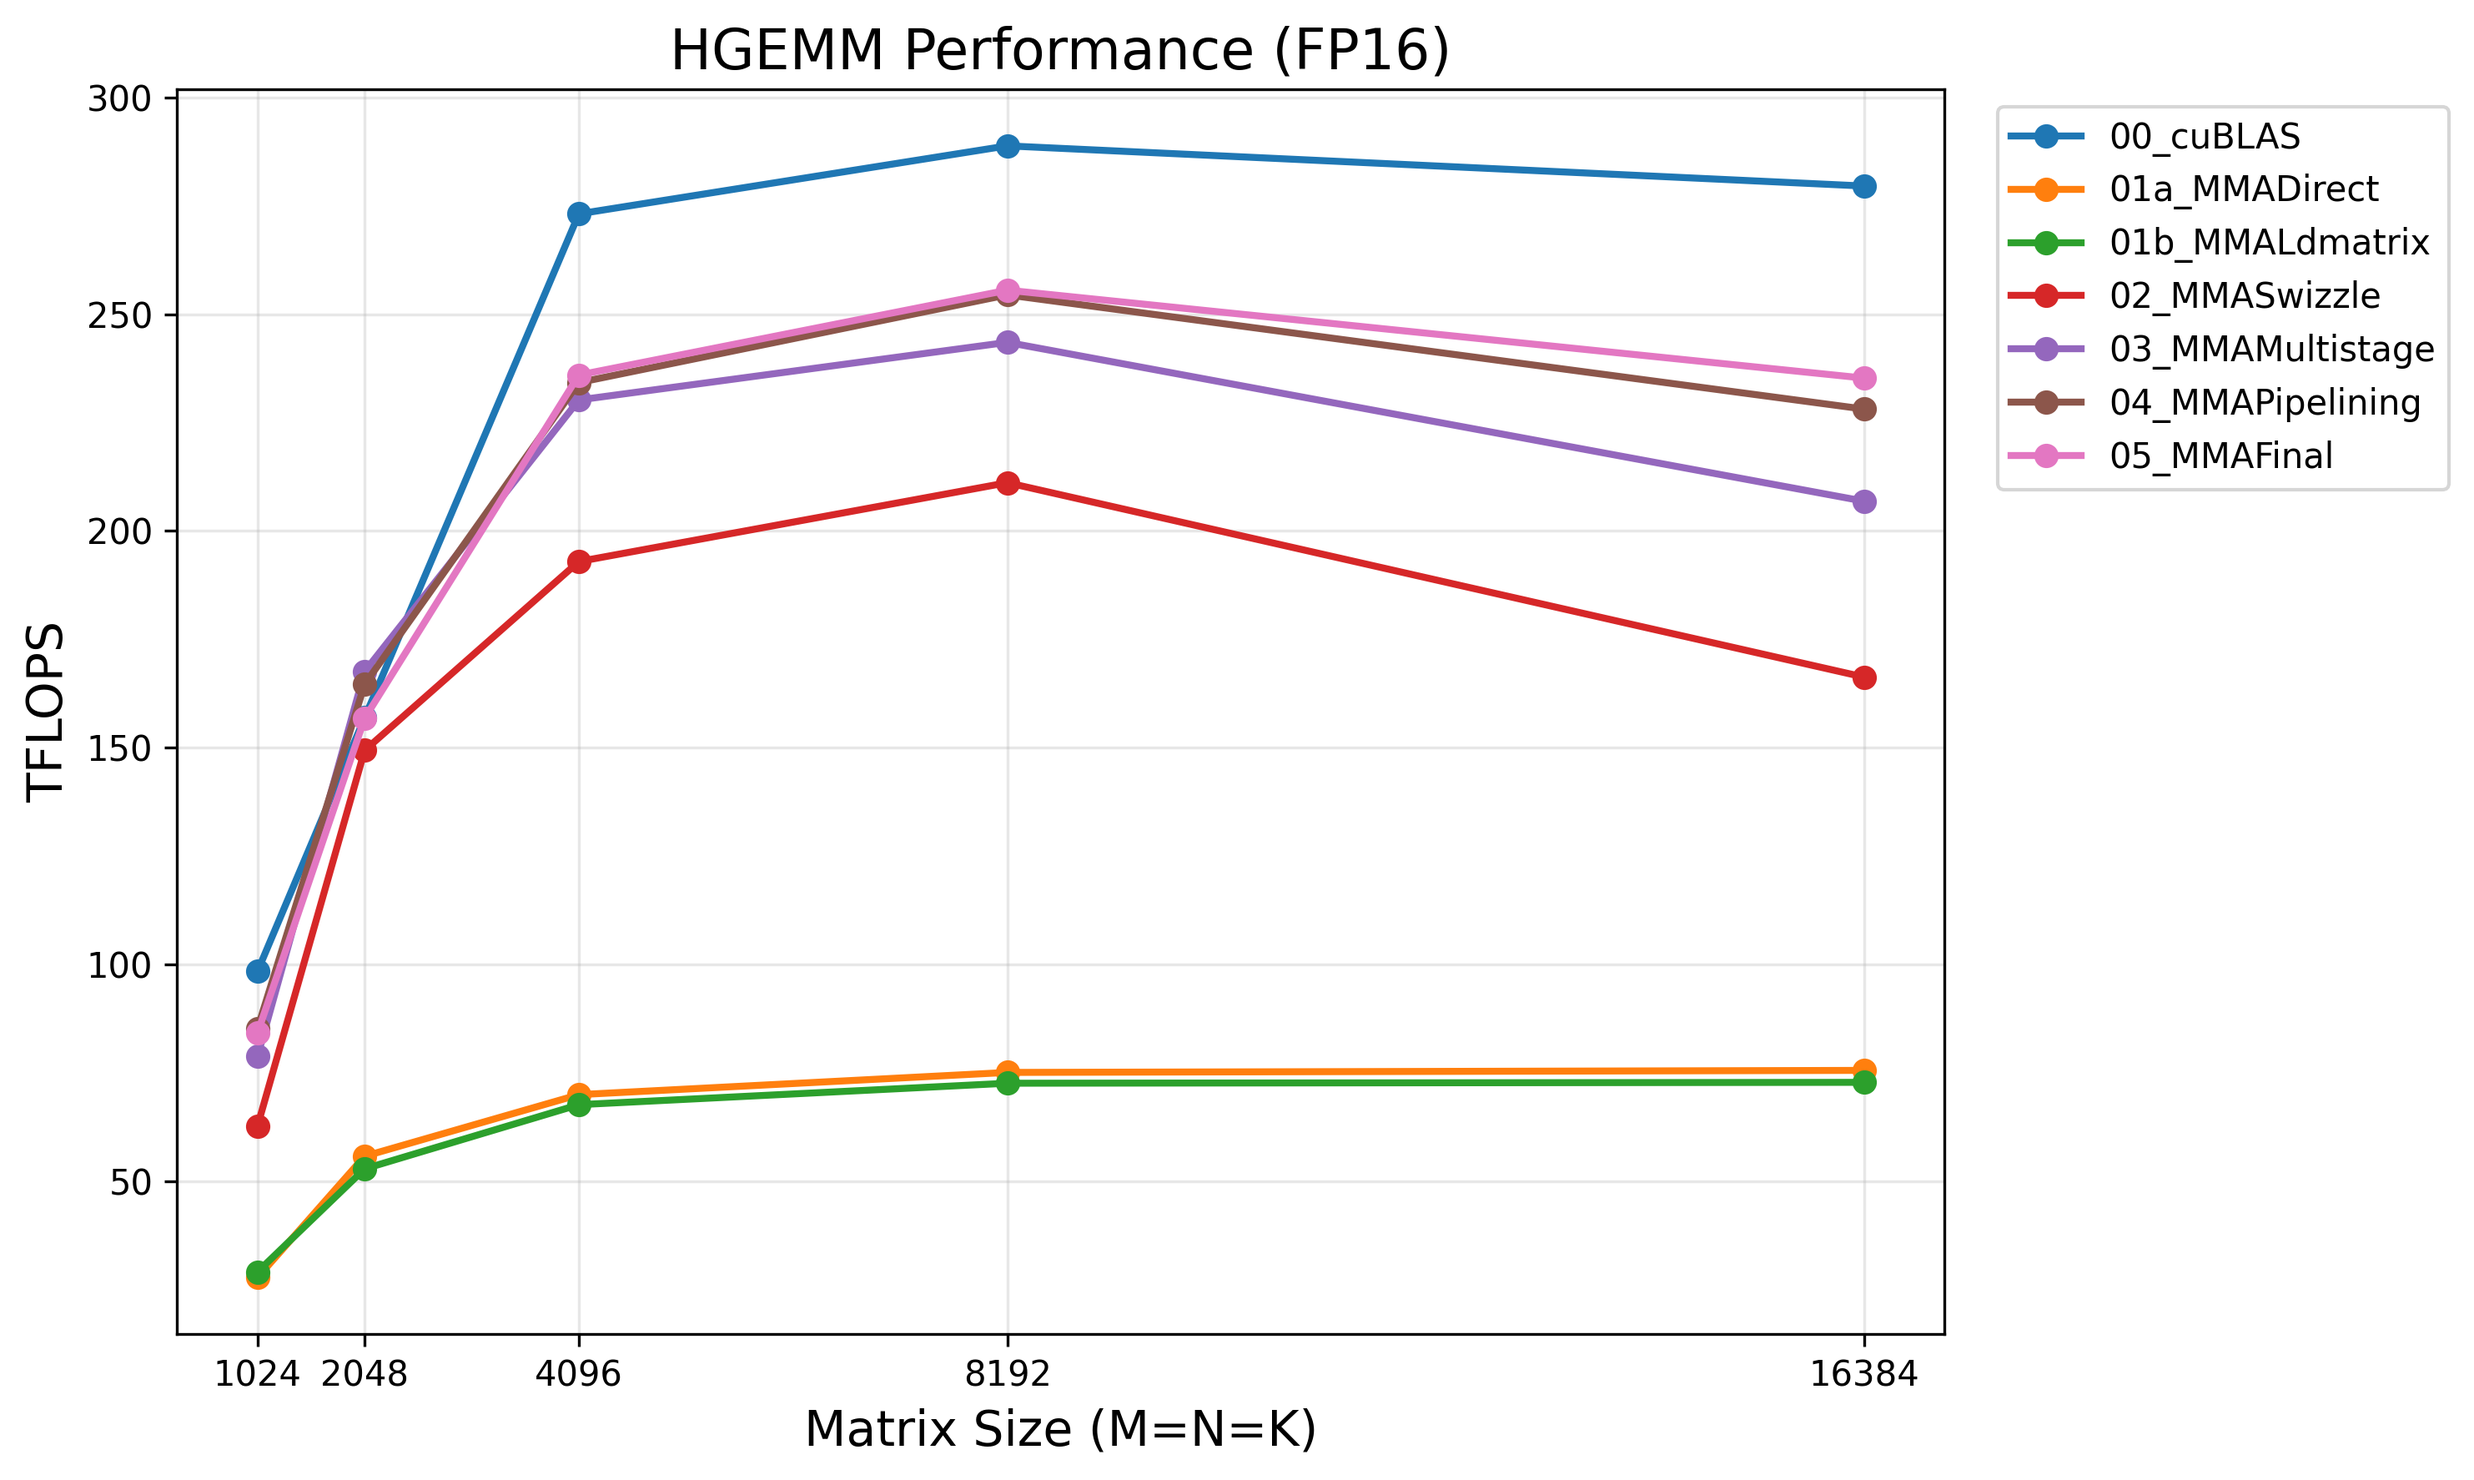
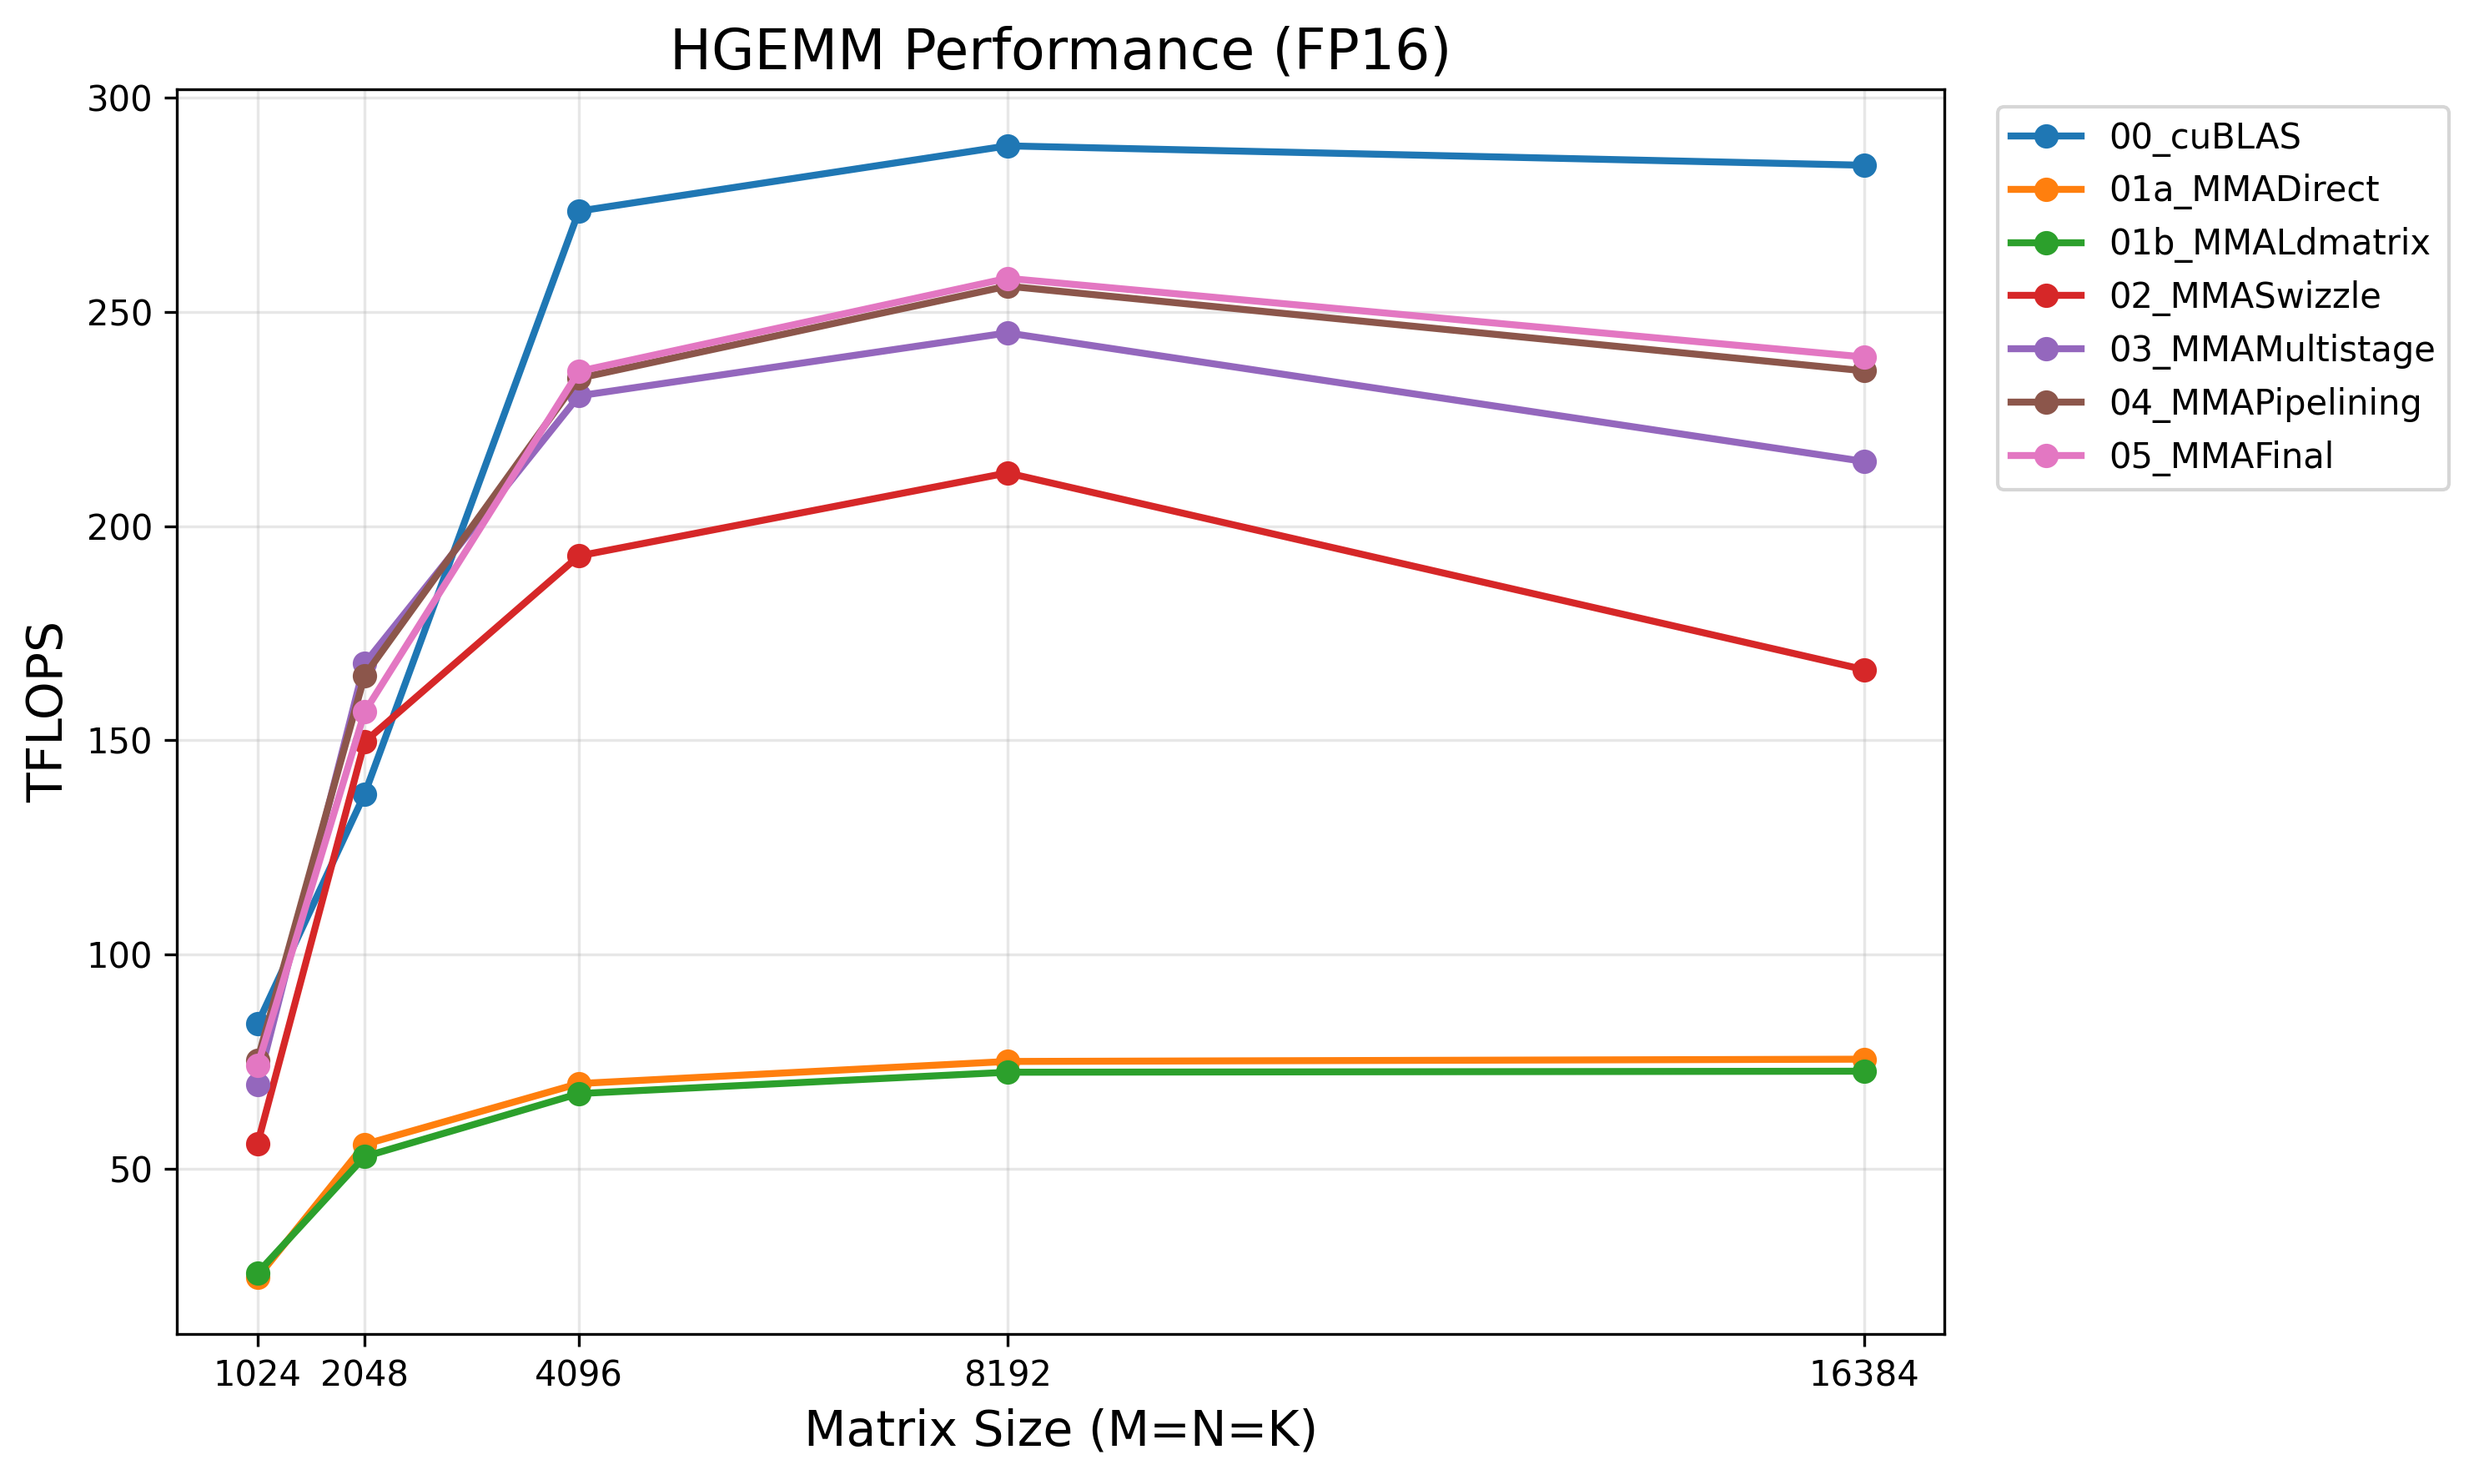
Replace pipeline intrinsics with PTX cp.async, add README and update figures

diff --git a/README.md b/README.md
@@ -46,13 +46,13 @@ The final kernel achieves **88% of cuBLAS** performance (256 vs 289 TFLOPS at N=
 
 | Kernel | N=4096 | N=8192 | N=16384 | % cuBLAS (N=8192) |
 |--------|--------|--------|---------|-------------------|
-| cuBLAS | 273 | 289 | 280 | 100% |
+| cuBLAS | 274 | 289 | 285 | 100% |
 | 01a_MMADirect | 70 | 75 | 76 | 26% |
 | 01b_MMALdmatrix | 68 | 73 | 73 | 25% |
-| 02_MMASwizzle | 193 | 211 | 166 | 73% |
-| 03_MMAMultistage | 230 | 244 | 207 | 84% |
-| 04_MMAPipelining | 234 | 254 | 228 | 88% |
-| 05_MMAFinal | 236 | 256 | 235 | 88% |
+| 02_MMASwizzle | 193 | 212 | 166 | 73% |
+| 03_MMAMultistage | 231 | 245 | 214 | 85% |
+| 04_MMAPipelining | 235 | 255 | 237 | 88% |
+| 05_MMAFinal | 236 | 256 | 242 | 88% |
 
 ## Blog Post
 
